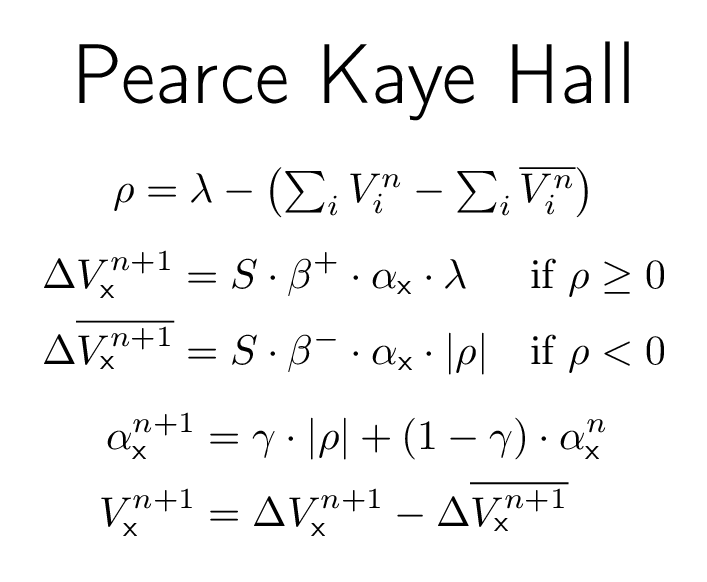
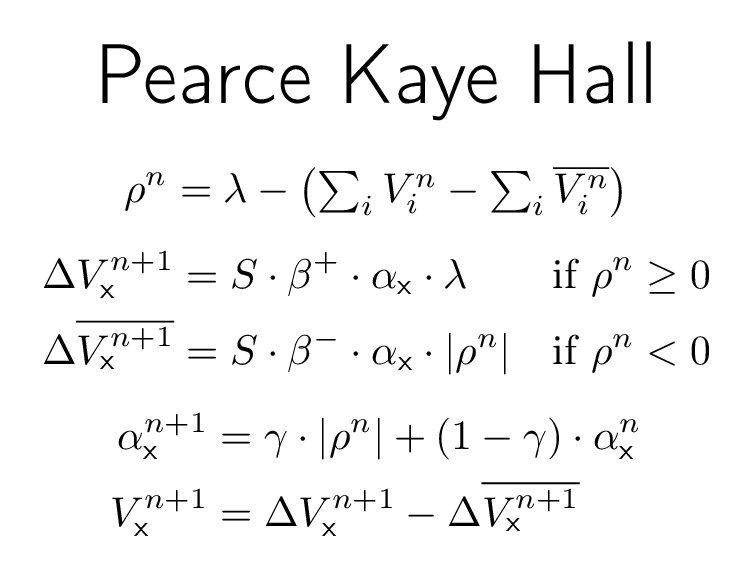
\rhon on PKH.

diff --git a/resources/PKH.tex b/resources/PKH.tex
@@ -19,13 +19,13 @@
 \end{center}
 \begin{equation*}
 	\begin{gathered}
-		\rho = \lambda - \left( \textstyle\sum_i V_i^n - \textstyle\sum_i \overline{V_i^n} \right) \\[1ex]
+		\rho^n = \lambda - \left( \textstyle\sum_i V_i^n - \textstyle\sum_i \overline{V_i^n} \right) \\[1ex]
 		\begin{aligned}
-			\Delta V_\eks^{n + 1}            &= S \cdot \beta^+ \cdot \alpha_\eks \cdot \lambda             & \text{if } \rho \geq 0 \\
-			\Delta \overline{V_\eks^{n + 1}} &= S \cdot \beta^- \cdot \alpha_\eks \cdot \left| \rho \right| & \text{if } \rho < 0 \\
+			\Delta V_\eks^{n + 1}            &= S \cdot \beta^+ \cdot \alpha_\eks \cdot \lambda             & \text{if } \rho^n \geq 0 \\
+			\Delta \overline{V_\eks^{n + 1}} &= S \cdot \beta^- \cdot \alpha_\eks \cdot \left| \rho^n \right| & \text{if } \rho^n < 0 \\
 		\end{aligned} \\[1ex]
 		\begin{aligned}
-			\alpha_\eks^{n + 1} &= \gamma \cdot \left| \rho \right| + (1 - \gamma) \cdot \alpha_\eks^n \\
+			\alpha_\eks^{n + 1} &= \gamma \cdot \left| \rho^n \right| + (1 - \gamma) \cdot \alpha_\eks^n \\
 			V_\eks^{n + 1} &= \Delta V_\eks^{n + 1} - \Delta \overline{V_\eks^{n + 1}}
 		\end{aligned}
 	\end{gathered}

diff --git a/PALMS.py b/PALMS.py
@@ -554,7 +554,7 @@ def main():
         for envvar in ("QT_AUTO_SCREEN_SCALE_FACTOR","QT_SCALE_FACTOR", "QT_SCREEN_SCALE_FACTORS","QT_DEVICE_PIXEL_RATIO"):
             logging.info(f'Env {envvar}: {os.environ.get(envvar)}')
 
-        dpi = 1.4 * app.primaryScreen().logicalDotsPerInch()
+        dpi = app.primaryScreen().logicalDotsPerInch()
         if forceRatio:
             logging.info('Multiplying DPI ratio to devicePixelRatio')
             dpi *= app.primaryScreen().devicePixelRatio()
